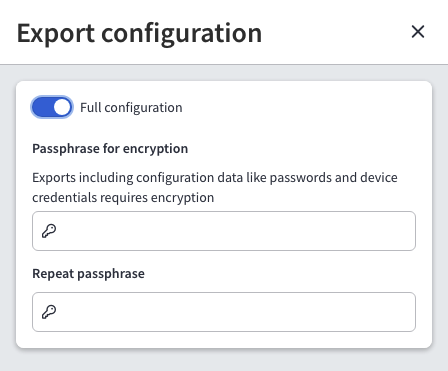
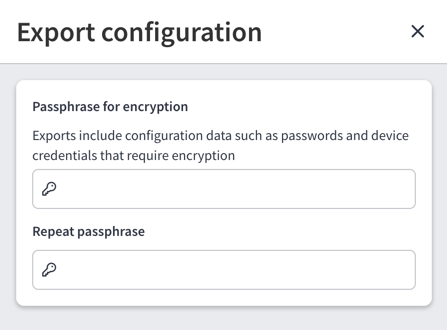
copied from MR-1378

diff --git a/docs/IP_Fabric_Settings/system/Backup_and_Maintenance/configuration_import_export.md b/docs/IP_Fabric_Settings/system/Backup_and_Maintenance/configuration_import_export.md
@@ -26,12 +26,6 @@ You will need to enter a passphrase to encrypt the data in the exported file.
 
 ![Export Configuration UI](configuration_import_export/export_configuration.png)
 
-Some configuration export options are interdependent:
-
-- `API Tokens` will not include assigned roles unless the `Roles` option is also exported.
-- `Local Users` will not include assigned roles unless the `Roles` option is also exported.
-- `Roles` will not include assigned policies unless the `Policies` option is also exported.
-
 After submitting the export, a `Configuration Export` job will be queued. Once the job is complete, you will receive a notification,
 and the exported configuration file will be available for download from the job's notification.
 
@@ -44,21 +38,13 @@ To import the configuration, follow these steps and click the **Import Configura
 ![Import Configuration Button](configuration_import_export/import_configuration_button.png)
 
 A side panel will appear, prompting you to enter the correct passphrase and select a file containing the exported configuration.
-Once selected, you can choose which parts of the configuration to import from the file.
-**Options that are disabled are not present in the selected file**.
 
 !!! warning "Configuration import overrides current configuration"
 
-    Importing the configuration will overwrite the selected parts of the current configuration with the imported data.
+    Importing the configuration will overwrite the entire current configuration file with the imported data.
     We recommend creating a backup before proceeding with the import.
 
 ![Import Configuration UI](configuration_import_export/import_configuration.png)
-
-Some configuration import options are interdependent:
-
-- `API Tokens` will not include assigned roles unless the `Roles` option is also imported.
-- `Local Users` will not include assigned roles unless the `Roles` option is also imported.
-- `Roles` will not include assigned policies unless the `Policies` option is also imported.
 
 After submitting the import, a `Configuration Import` job will be queued. Once the job is complete, you will receive a notification.
 After the import, we recommend logging out and logging back in to ensure all imported data is correctly loaded.
